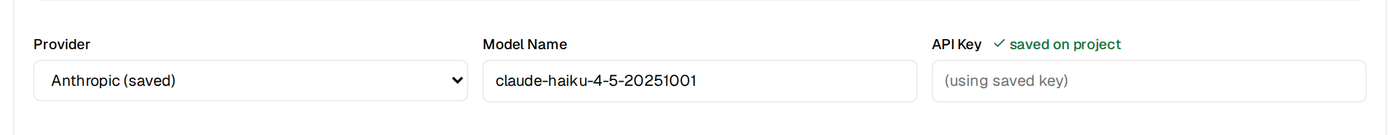
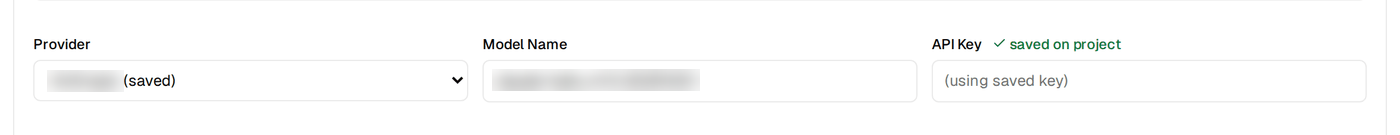
Sensitive-data post: describe the second-opinion answer key's writer as a flagship cloud model, blur provider and model names in two screenshots, placeholder backend pin

Changed region(s): [[0.3379, 0.5037, 0.5221, 0.6815], [0.0307, 0.5037, 0.0921, 0.6815]]

diff --git a/blog-sensitive-data-detector-from-zero.html b/blog-sensitive-data-detector-from-zero.html
@@ -90,7 +90,7 @@
             medical record number, your own employee ids) and <em>exactly where</em> it is
             (character start and end). You have no labelled data, a GPU or a patient CPU, a local
             <a class="inline-link" href="https://ollama.com" target="_blank" rel="noopener noreferrer">Ollama</a>
-            and, optionally, an Anthropic API key. This is the whole build in BrewSLM, one screen at
+            and, optionally, a cloud model API key. This is the whole build in BrewSLM, one screen at
             a time, with every number from a real run — including the ones that went down.
           </p>
           <p class="form-note">
@@ -120,7 +120,7 @@
             </thead>
             <tbody>
               <tr><td>Labels written by the same local model that wrote the training data</td><td>0.91</td><td>0.93</td><td>0.92</td></tr>
-              <tr><td><strong>An independent answer key written by a second model (Claude Haiku 4.5)</strong></td><td><strong>0.85</strong></td><td><strong>0.85</strong></td><td><strong>0.85</strong></td></tr>
+              <tr><td><strong>An independent answer key written by a second, flagship cloud model</strong></td><td><strong>0.85</strong></td><td><strong>0.85</strong></td><td><strong>0.85</strong></td></tr>
             </tbody>
           </table>
         </div>
@@ -160,7 +160,7 @@
             it costs nothing per call.
           </li>
           <li>
-            <strong>Optional:</strong> an Anthropic API key for the second-opinion answer key.
+            <strong>Optional:</strong> a cloud model API key for the second-opinion answer key.
             Every key in this post cost a few cents (estimated; see <a class="inline-link" href="#cost">cost</a>).
           </li>
           <li>
@@ -379,7 +379,7 @@ person_name:   a private individual's name, including in greetings and signature
           and for every failing text the entities expected and found, side by side.
         </p>
         <figure class="blog-figure">
-          <img src="./assets/blog/sensitive-data/05-eval-span.png" alt="Eval card: Span F1 0.85 against the answer key, written by Claude Haiku 4.5; test examples F1 0.92; weakest types; where it still fails" loading="lazy" />
+          <img src="./assets/blog/sensitive-data/05-eval-span.png" alt="Eval card: Span F1 0.85 against the answer key, written by a second model; test examples F1 0.92; weakest types; where it still fails" loading="lazy" />
           <figcaption>Run #62 after Step 12, as the card looked before the 2026-10 revamp — kept as the record of that run. The same card now lives on <strong>Results → Verdict</strong>. Once a second-opinion answer key exists (Step 10) the card leads with it. The first failure is the title convention from Step 11: the key says "Ms. Olivia Reed", the model "Olivia Reed".</figcaption>
         </figure>
         <p>
@@ -410,32 +410,32 @@ person_name:   a private individual's name, including in greetings and signature
         <p>
           Every number so far scored the model against labels written by <em>the same model that
           wrote its training data</em>. That measures how well the student copies its teacher, not
-          how right either of them is. <strong>Write answer key with</strong> (provider Anthropic,
-          model <code>claude-haiku-4-5</code>) hands the test texts — unchanged — to a second model.
+          how right either of them is. <strong>Write answer key with</strong> (a cloud provider and
+          a small flagship model) hands the test texts — unchanged — to a second model.
           It asks only for the entities, under your conventions, and verifies every offset. The
           result is kept as the project's <code>gold_test</code> set.
         </p>
         <p>
           <strong>Giving BrewSLM the key:</strong> on <strong>Data → Generate</strong> set <strong>Provider</strong> to
-          Anthropic, paste the key into <strong>API Key</strong> and click <strong>Save key to this
+          your cloud provider, paste the key into <strong>API Key</strong> and click <strong>Save key to this
           project</strong>. It is stored encrypted on the project, the field shows "✓ saved on
           project", and the key is never shown back. Don't paste it into a chat or a ticket.
         </p>
         <figure class="blog-figure">
-          <img src="./assets/blog/sensitive-data/03-save-key.png" alt="The provider row on Data → Generate: Provider Anthropic (saved), Model Name claude-haiku-4-5-20251001, and the API Key field marked saved on project with the placeholder (using saved key)" loading="lazy" />
-          <figcaption><strong>Data → Generate</strong>: provider <em>Anthropic (saved)</em>, model <code>claude-haiku-4-5-20251001</code>, API Key "✓ saved on project" — the field reads <em>(using saved key)</em>. With a fresh key the button reads <em>Save key to this project</em>.</figcaption>
+          <img src="./assets/blog/sensitive-data/03-save-key.png" alt="The provider row on Data → Generate: the cloud provider (saved), its Model Name, and the API Key field marked saved on project with the placeholder (using saved key)" loading="lazy" />
+          <figcaption><strong>Data → Generate</strong>: provider <em>(saved)</em> and model (names blurred), API Key "✓ saved on project" — the field reads <em>(using saved key)</em>. With a fresh key the button reads <em>Save key to this project</em>.</figcaption>
         </figure>
         <p>
         </p>
         <p>
           It took 45 seconds for all 44 texts. The bell reports the <strong>agreement between the
           two labellers</strong>: strict span F1 of the old labels against the new key. Ours was
-          <strong>0.74</strong>. Scored against Haiku's key, run #56 dropped from 0.88 to
+          <strong>0.74</strong>. Scored against the second model's key, run #56 dropped from 0.88 to
           <strong>0.74</strong>.
         </p>
         <p>
           That drop is the most useful number in this post. It was not the model getting worse; it
-          was the old answer key being wrong in a consistent way. Haiku had found 14 phones, 12
+          was the old answer key being wrong in a consistent way. The second model had found 14 phones, 12
           emails and 13 names the local labels didn't have. Every one of those phones and emails
           matched BrewSLM's own regex. They were missing because of the narrowed refine passes from
           Step 9.
@@ -446,7 +446,7 @@ person_name:   a private individual's name, including in greetings and signature
         <div class="table-wrap">
           <table class="compare-table">
             <thead>
-              <tr><th>Fix</th><th>What changed</th><th>F1 vs Haiku key</th></tr>
+              <tr><th>Fix</th><th>What changed</th><th>F1 vs second-opinion key</th></tr>
             </thead>
             <tbody>
               <tr>
@@ -493,7 +493,7 @@ person_name:   a private individual's name, including in greetings and signature
         </p>
         <p>
           We measured it by joining the 44 test texts into four multi-page documents of 780–915
-          tokens and scoring them against the Haiku key. Before windowing, nothing after token 512
+          tokens and scoring them against the second-opinion key. Before windowing, nothing after token 512
           was found:
         </p>
         <div class="table-wrap">
@@ -530,7 +530,7 @@ person_name:   a private individual's name, including in greetings and signature
         </ol>
         <div class="table-wrap">
           <table class="compare-table">
-            <thead><tr><th>Multi-page documents, F1 vs the Haiku key</th><th>Before (run #59)</th><th>Re-split only (run #60)</th><th>+ paged passages (run #62)</th></tr></thead>
+            <thead><tr><th>Multi-page documents, F1 vs the second-opinion key</th><th>Before (run #59)</th><th>Re-split only (run #60)</th><th>+ paged passages (run #62)</th></tr></thead>
             <tbody>
               <tr><td>Texts joined by blank lines</td><td>0.82</td><td>0.84</td><td>0.84</td></tr>
               <tr><td>"Page n of 11" footers</td><td>0.74</td><td>0.73</td><td><strong>0.84</strong></td></tr>
@@ -617,7 +617,7 @@ ticket_id        152-160  0.95  'TCK-5531'</code></pre>
               <tr><td>Refine pass, 55 rows (local)</td><td>5 min</td><td>local</td></tr>
               <tr><td>Training one run (GB10)</td><td>46–63 s</td><td>local</td></tr>
               <tr><td>Evaluation, 44 texts</td><td>seconds</td><td>local</td></tr>
-              <tr><td>Answer key, 44 texts (Haiku 4.5)</td><td>45–60 s</td><td>8 calls — a few cents (estimated)</td></tr>
+              <tr><td>Answer key, 44 texts (cloud model)</td><td>45–60 s</td><td>8 calls — a few cents (estimated)</td></tr>
               <tr><td>Relabel 874 training rows under conventions (local)</td><td>39 min</td><td>local</td></tr>
               <tr><td>40 paged documents + labelling their 129 passages (local)</td><td>7 + 5 min</td><td>local</td></tr>
             </tbody>
@@ -640,7 +640,7 @@ ticket_id        152-160  0.95  'TCK-5531'</code></pre>
           <li>Refine passes narrowed the type list, leaving phones and emails unlabelled.</li>
           <li>The second-opinion key lost batches to replies cut off mid-JSON. Replies are now compact, and a failed batch is split rather than re-sent.</li>
           <li>Training, evaluation and the exported tokenizer all stopped at 512 tokens, and the export claimed an unlimited length, so <code>stride</code> did nothing.</li>
-          <li>"Evaluate this run" skipped token-classification runs; there was no UI to save the Anthropic key on the synthetic-data step (now Data → Generate); and rows written without an id could never be accepted from the review queue, so they silently never trained.</li>
+          <li>"Evaluate this run" skipped token-classification runs; there was no UI to save a cloud API key on the synthetic-data step (now Data → Generate); and rows written without an id could never be accepted from the review queue, so they silently never trained.</li>
         </ul>
 
         <h2 id="limits">Limits, and what's next</h2>
@@ -692,7 +692,7 @@ POST /api/projects/{id}/training/experiments/{exp}/start
 POST /api/projects/{id}/evaluation/run-heldout?async_job=true  {"experiment_id": exp, "dataset_name": "test", "eval_type": "f1"}
 # refine, second opinion, label repair
 GET  /api/projects/{id}/synthetic/weak-types?threshold=0.8
-POST /api/projects/{id}/synthetic/relabel-answer-key  {"split": "test", "backend": "cloud:anthropic:claude-haiku-4-5-20251001"}
+POST /api/projects/{id}/synthetic/relabel-answer-key  {"split": "test", "backend": "cloud:&lt;provider&gt;:&lt;model&gt;"}
 POST /api/projects/{id}/synthetic/relabel-answer-key  {"target": "training", "backend": "ollama"}
 POST /api/projects/{id}/synthetic/spans/regex-augment
 # page furniture: paged documents → label passages as they are → accept → split keeping the test rows
